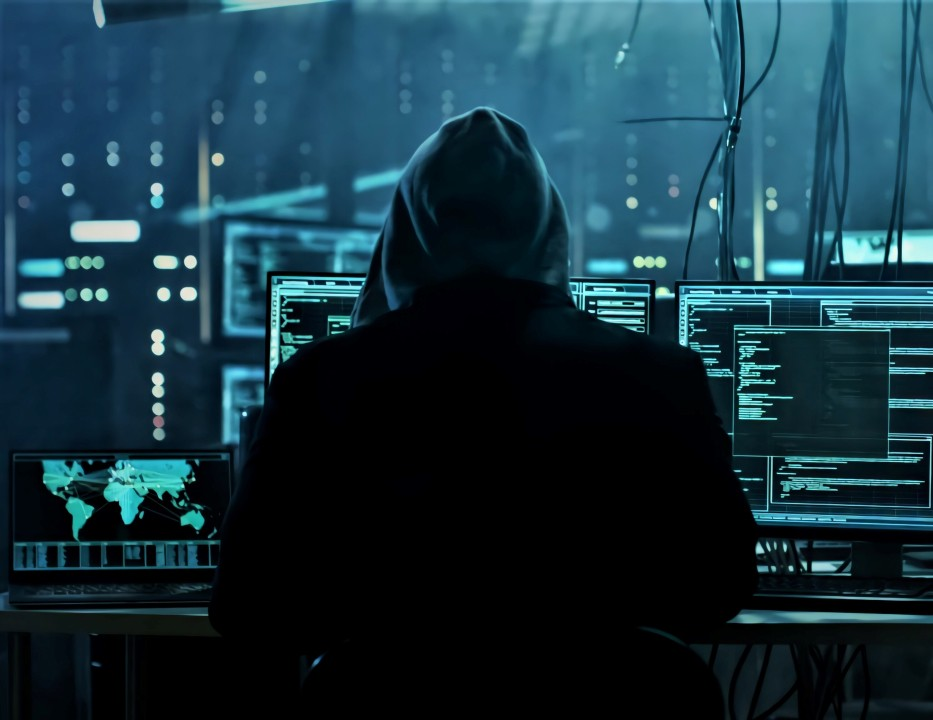
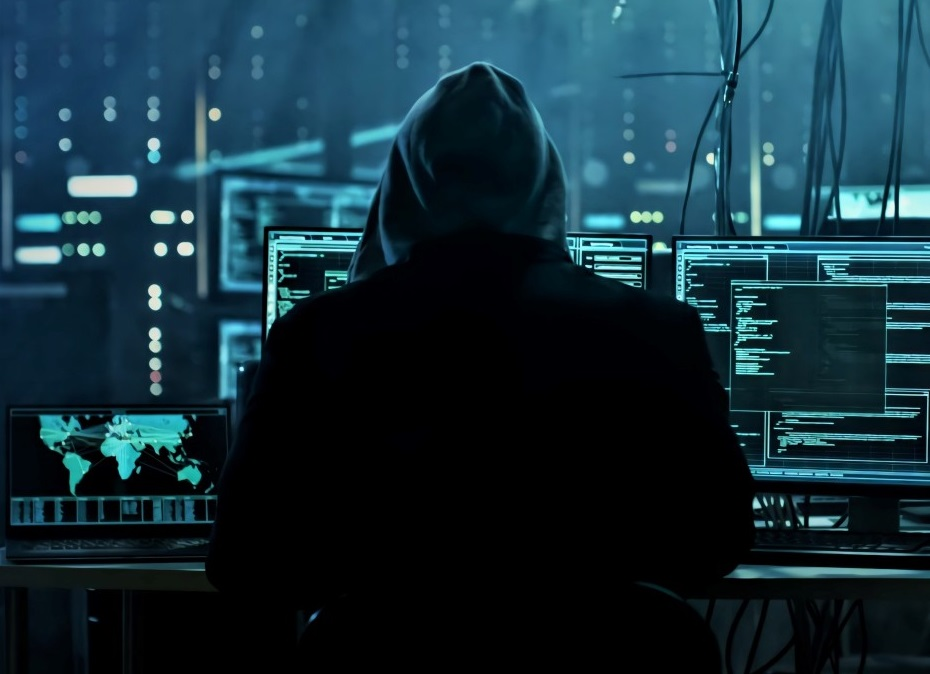
The duplicated hacker image has been deleted and the one that is used has been renamed.

diff --git a/portfolio/src/styles.css b/portfolio/src/styles.css
@@ -172,7 +172,7 @@ p {
 }
 
 .aboutme {
-    background: url("./assets/img/hacker_2.jpg") no-repeat;
+    background: url("./assets/img/hacker.jpg") no-repeat;
     background-size:cover;
 }
 
